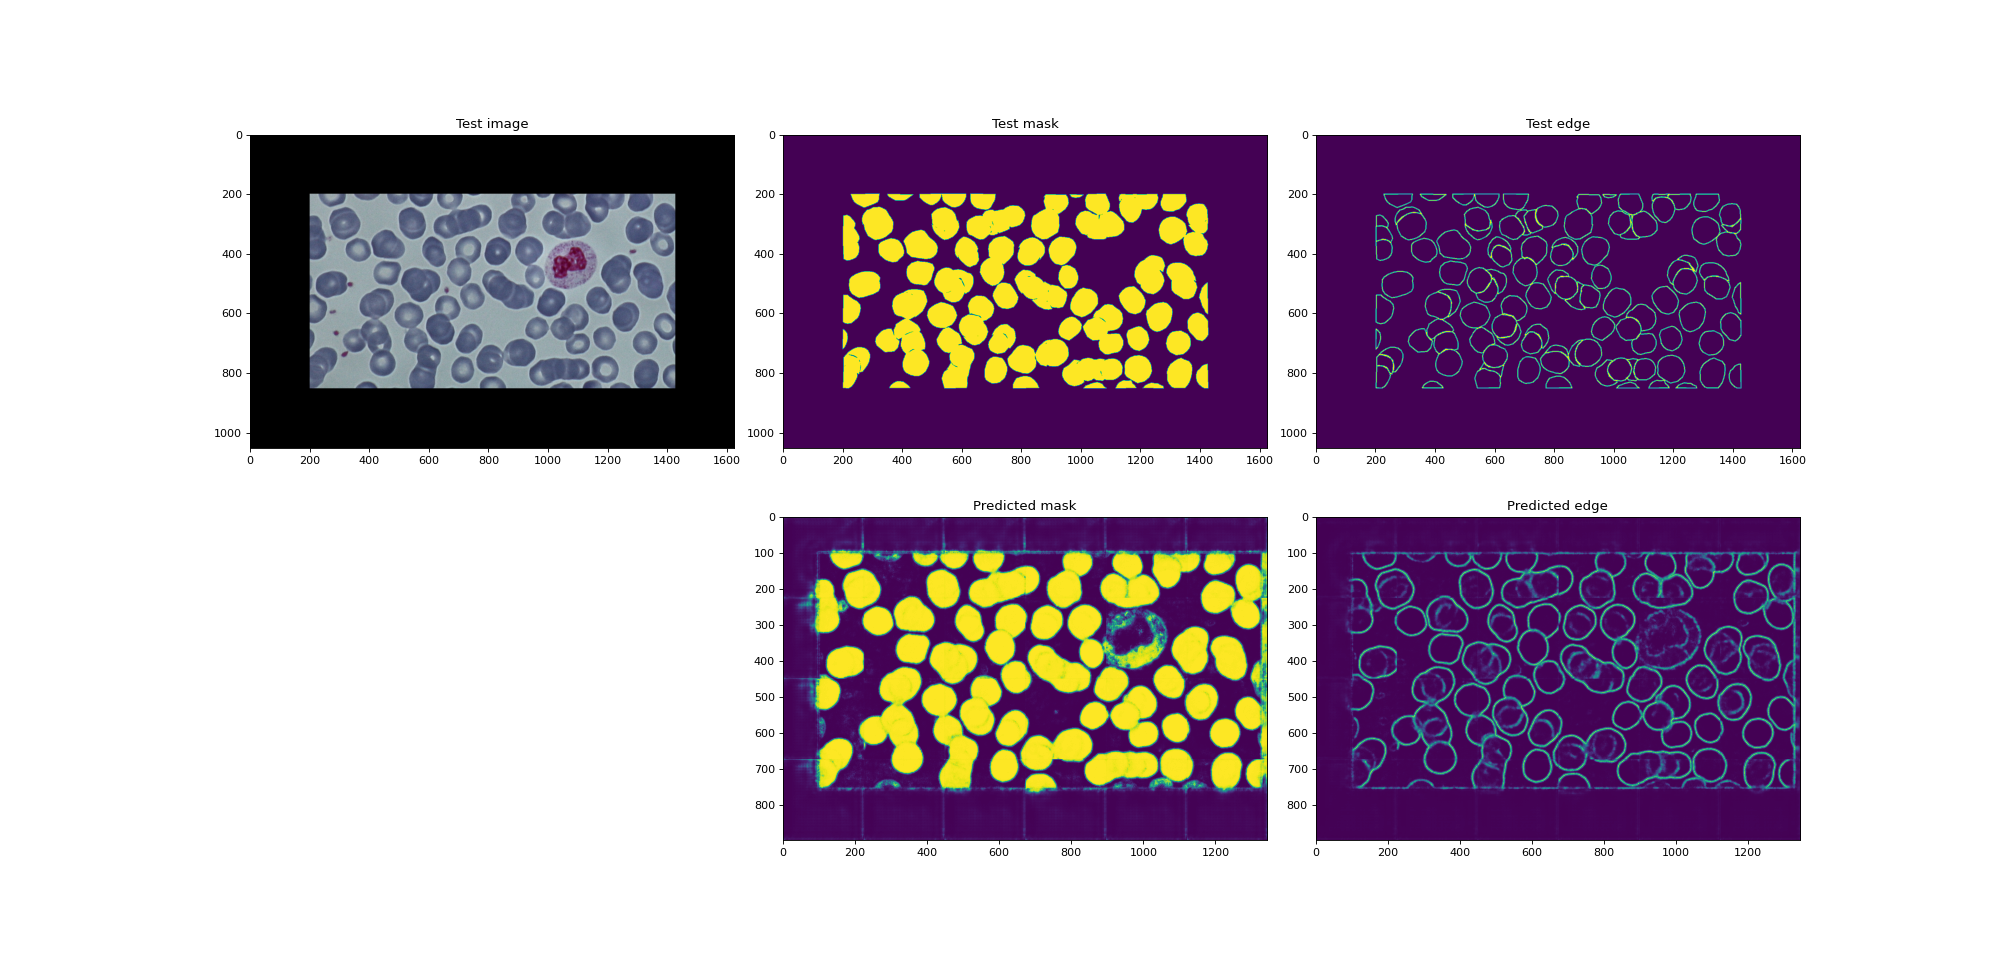
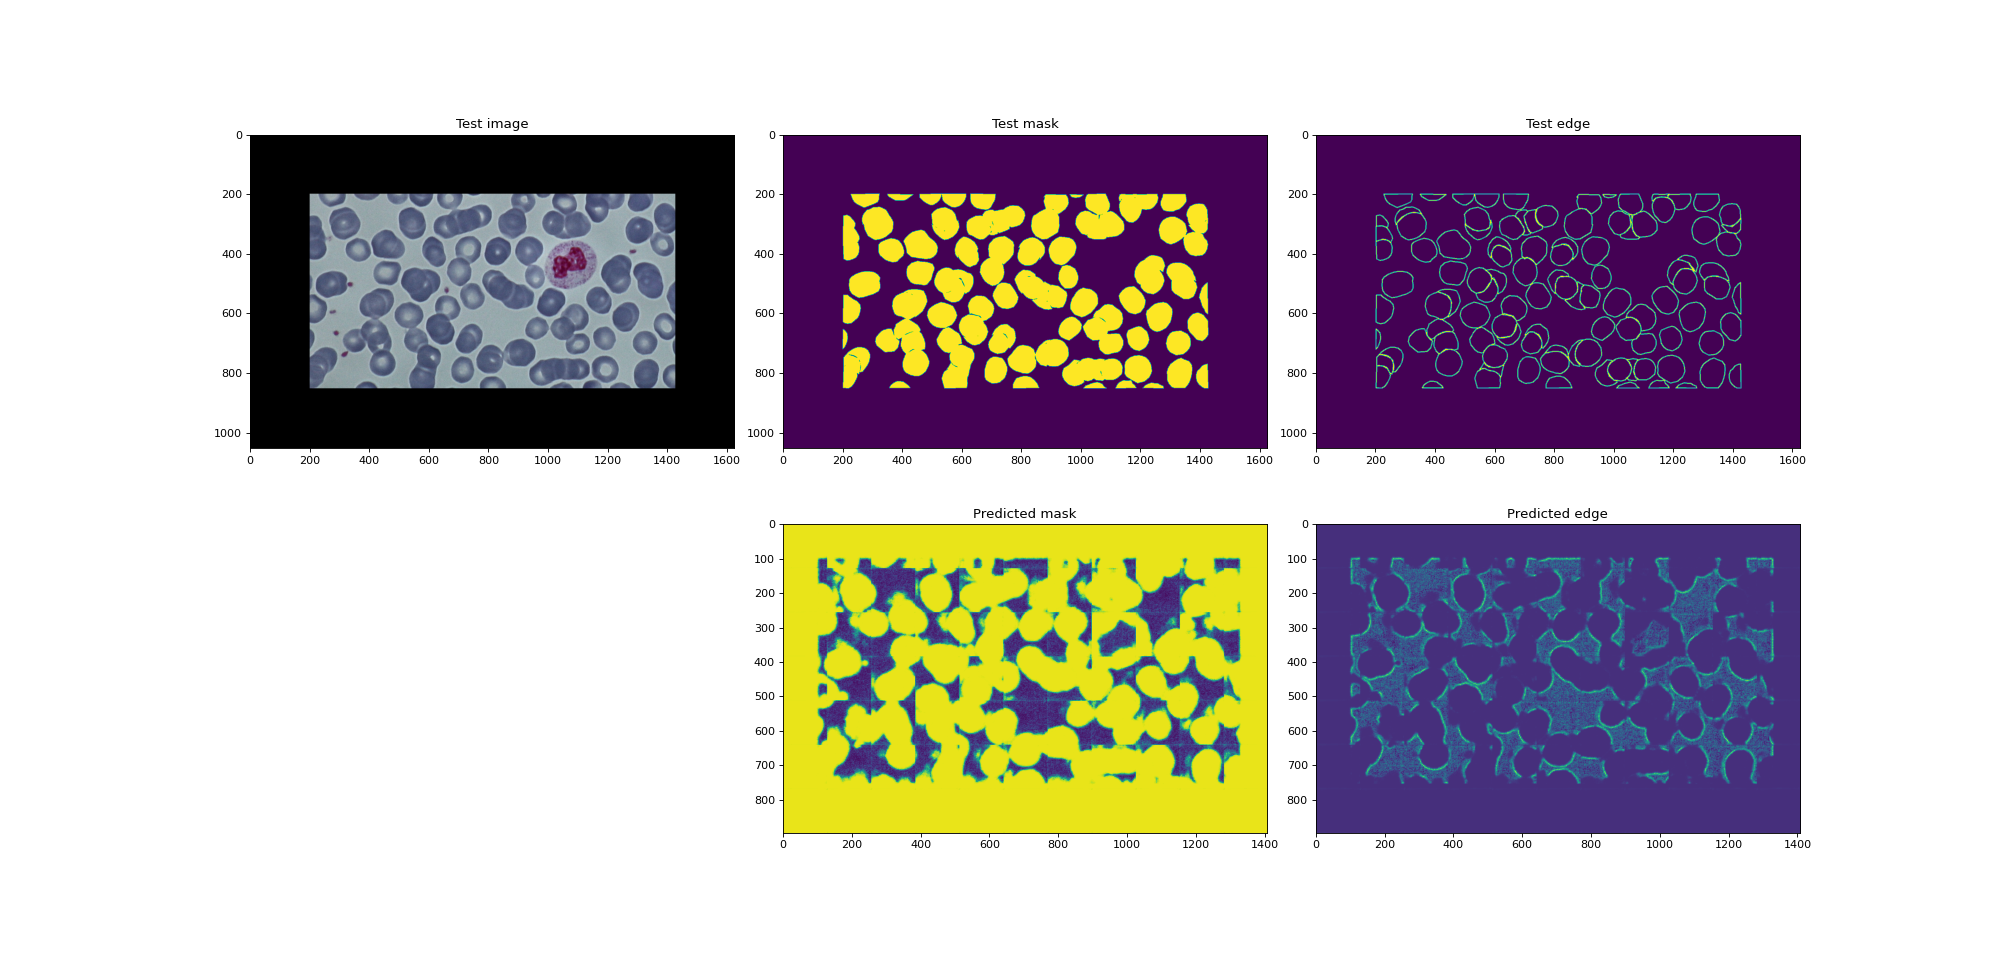
Added 128 weights!

Changed region(s): [[0.372, 0.5, 0.899, 0.9062]]

diff --git a/src/run.py b/src/run.py
@@ -68,7 +68,7 @@ def train(model_name='binary_crossentropy'):
 
 # extract number of image chips for an image
 def get_sizes(img,
-              offset=128,
+              offset=164,
               input=128,
               output=128):
     return [(len(np.arange(offset, img[0].shape[0] - input / 2, output)), len(np.arange(offset, img[0].shape[1] - input / 2, output)))]
@@ -237,10 +237,10 @@ def count_circles(img='edge.png'):
 
 # main program
 if __name__ == '__main__':
-    train('binary_crossentropy_128')
+    # train('binary_crossentropy_128')
     # evaluate(model_name='binary_crossentropy')
-    # predict(model_name='binary_crossentropy', img='Im037_0.jpg')
-    # threshold(img='mask.png')
-    # threshold(img='edge.png')
-    # threshold(img='edge-mask.png')
-    # count_circles(img='edge.png')
+    predict(model_name='binary_crossentropy_128', img='Im037_0.jpg')
+    threshold(img='mask.png')
+    threshold(img='edge.png')
+    threshold(img='edge-mask.png')
+    count_circles(img='edge.png')
